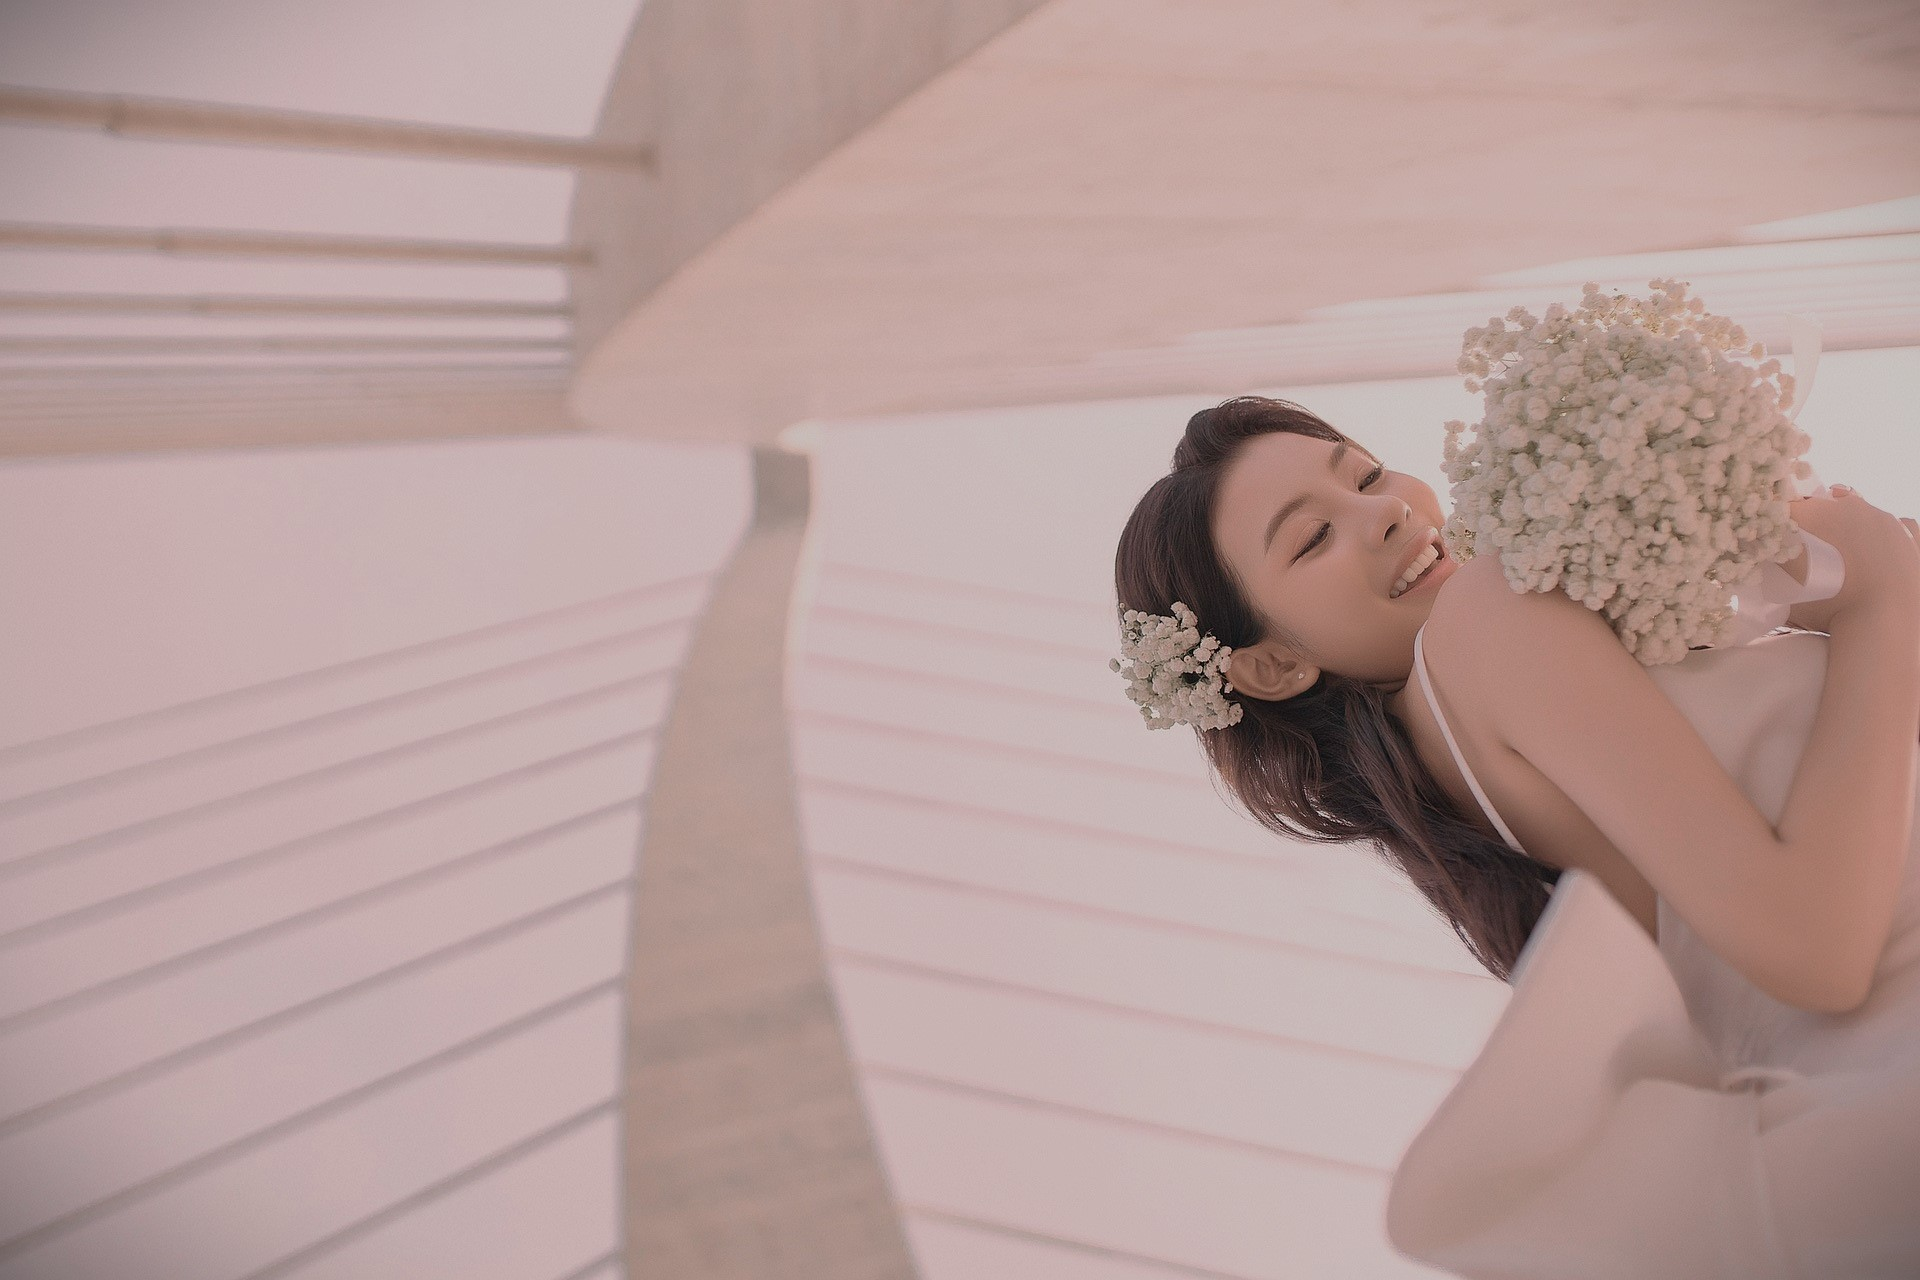
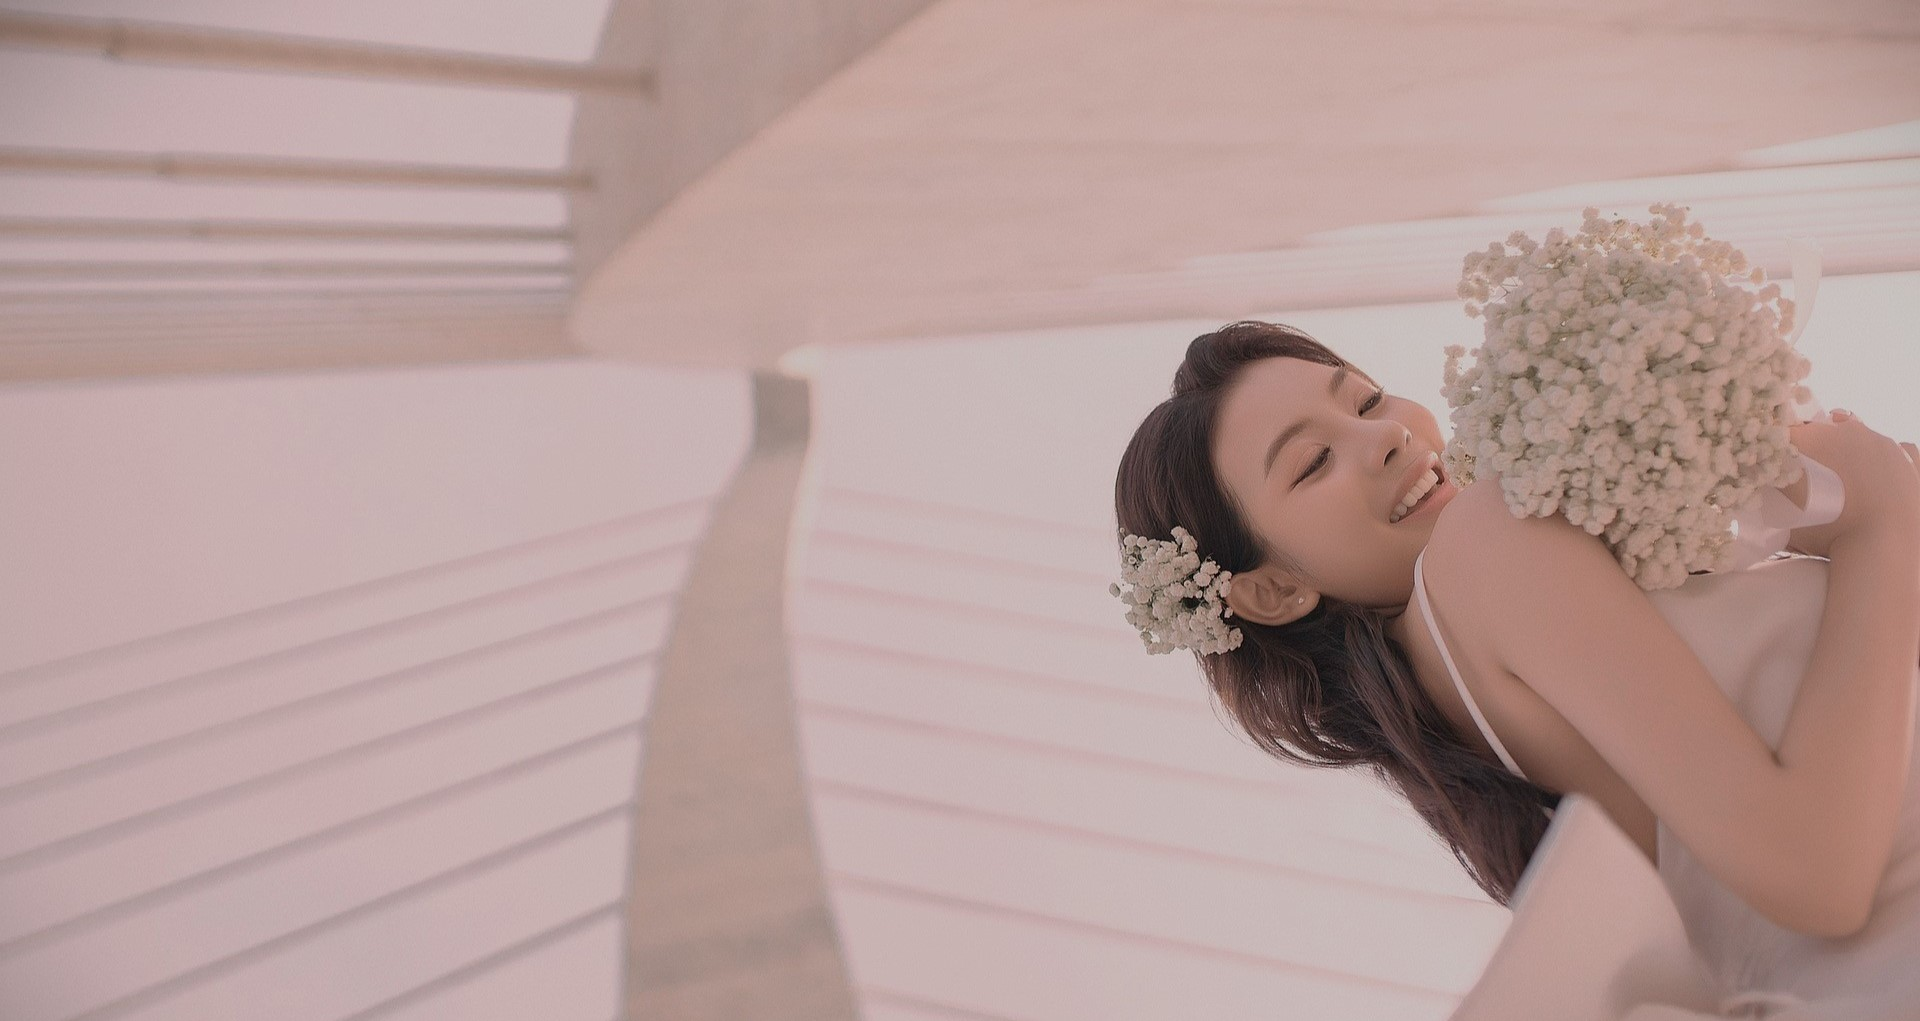
update home

diff --git a/website/webtech/templates/home.html b/website/webtech/templates/home.html
@@ -40,7 +40,9 @@
     <div class="tweede-div">
         <div>
             <img src="../static/images/weddinggirl1.jpg"> 
-
+            <p>
+                fghjklkjhgfhjkl
+            </p>
         </div>
     </div>
 </section>

diff --git a/website/webtech/static/css/home_stylesheet.css b/website/webtech/static/css/home_stylesheet.css
@@ -41,7 +41,10 @@ p {
 
 .tweede-div {
     background-image:url("weddinggirl1.jpeg");
-    padding: 20px; 
+    background-size: cover;
+    
+    
+    height: auto;
 }
 
 
